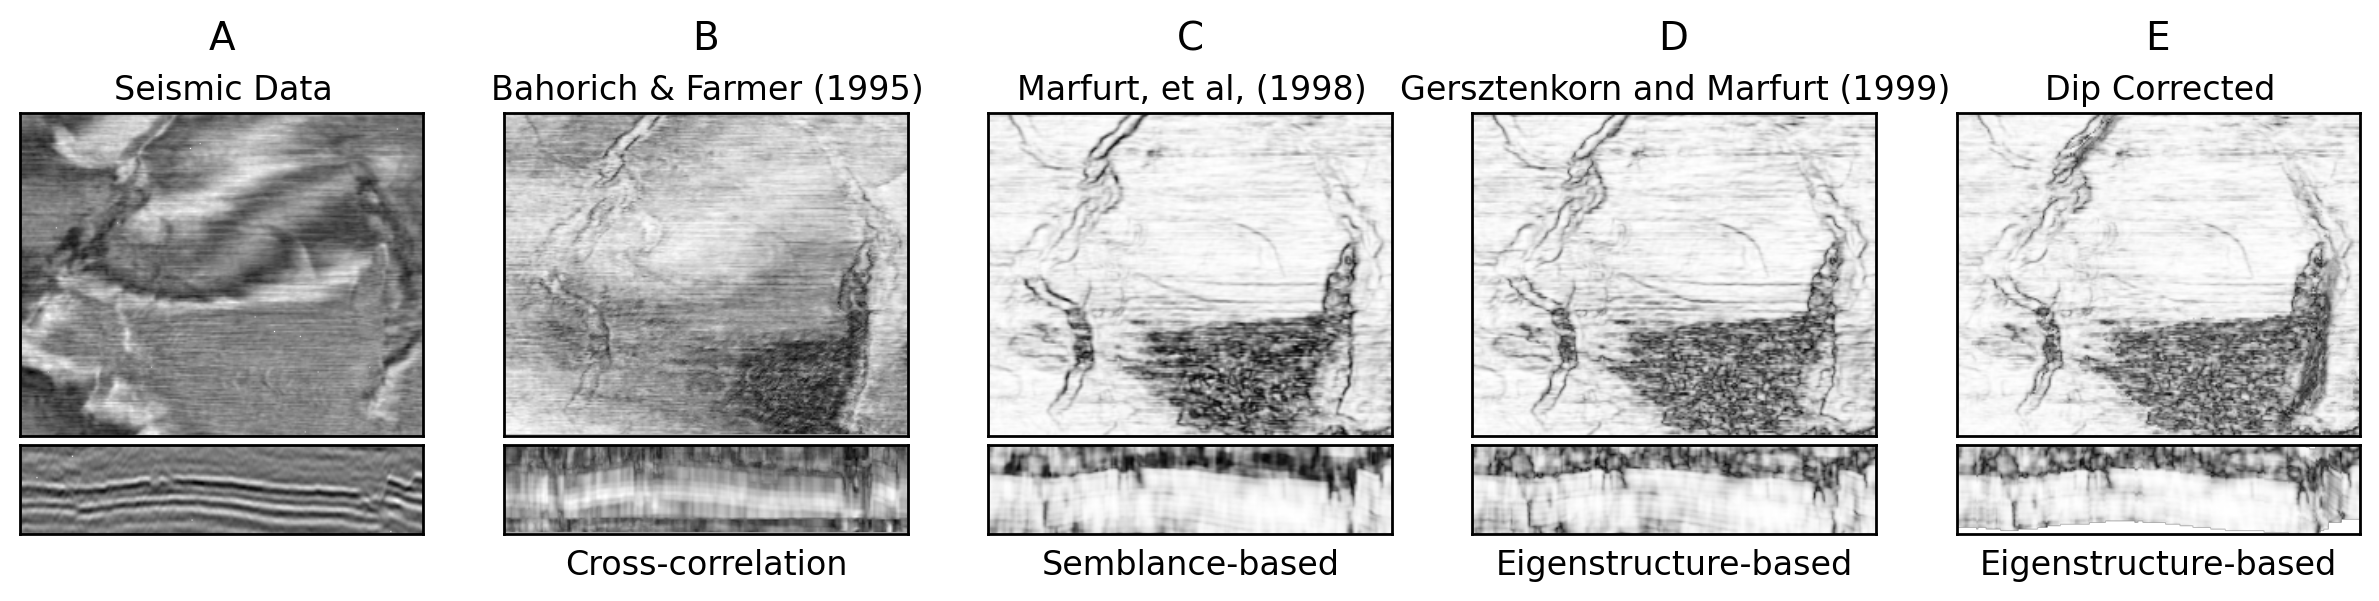
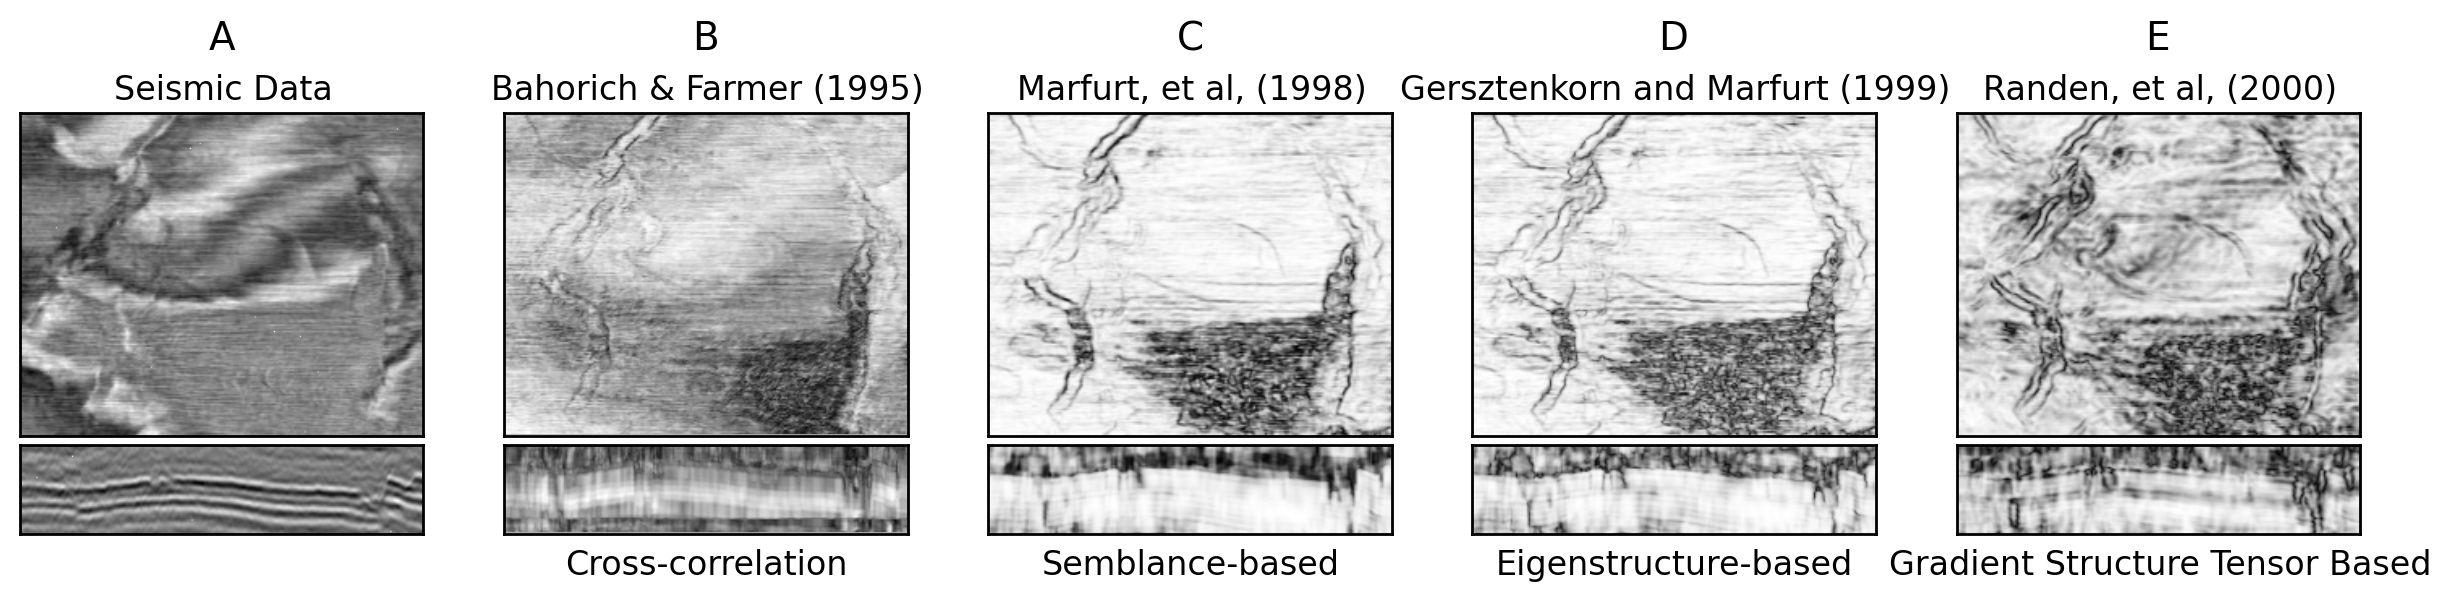
GST Coherence added as part of tutorial

diff --git a/1512_Semblance_coherence_and_discontinuity/figures/basic_methods.py b/1512_Semblance_coherence_and_discontinuity/figures/basic_methods.py
@@ -99,3 +99,42 @@ def unflatten(data, surface, orig_shape):
         out[i, j, outmin:outmax] = data[i, j, inmin:inmax]
 
     return out
+
+def gradients(seismic, sigma):
+    """Builds a 4-d array of the gaussian gradient of *seismic*."""
+    grads = []
+    for axis in range(3):
+        # Gaussian filter with order=1 is a gaussian gradient operator
+        grad = scipy.ndimage.gaussian_filter1d(seismic, sigma, axis=axis, order=1)
+        grads.append(grad[..., np.newaxis])
+    return np.concatenate(grads, axis=3)
+
+def moving_window4d(grad, window, func):
+    """Applies the given function *func* over a moving *window*, reducing
+    the input *grad* array from 4D to 3D."""
+    # Pad in the spatial dimensions, but leave the gradient dimension unpadded.
+    half_window = [(x // 2, x // 2) for x in window] + [(0, 0)]
+    padded = np.pad(grad, half_window, mode='reflect')
+
+    out = np.empty(grad.shape[:3], dtype=float)
+    for i, j, k in np.ndindex(out.shape):
+        region = padded[i:i+window[0], j:j+window[1], k:k+window[2], :]
+        out[i,j,k] = func(region)
+    return out
+
+def gst_coherence_calc(region):
+    """Calculate gradient structure tensor coherence on a local region.
+    Intended to be applied with *moving_window4d*."""
+    region = region.reshape(-1, 3)
+    gst = region.T.dot(region) # This is the 3x3 gradient structure tensor
+
+    # Reverse sort of eigenvalues of the GST (largest first)
+    eigs = np.sort(np.linalg.eigvalsh(gst))[::-1]
+
+    return (eigs[0] - eigs[1]) / (eigs[0] + eigs[1])
+
+def gst_coherence(seismic, window, sigma=1):
+    """Randen, et al's (2000) Gradient Structure Tensor based coherence."""
+    # 4-d gradient array (ni x nj x nk x 3)
+    grad = gradients(seismic, sigma)
+    return moving_window4d(grad, window, gst_coherence_calc)

diff --git a/1512_Semblance_coherence_and_discontinuity/figures/figure_1.py b/1512_Semblance_coherence_and_discontinuity/figures/figure_1.py
@@ -2,7 +2,7 @@ import numpy as np
 import matplotlib.pyplot as plt
 
 import basic_methods
-from basic_methods import moving_window
+from basic_methods import moving_window, gst_coherence
 from parent_directory import data, image_dir
 
 
@@ -18,8 +18,8 @@ def main():
          moving_window(seismic, (3,3,9), basic_methods.marfurt_semblance), 'C')
     plot(axes[:,3], 'Gersztenkorn and Marfurt (1999)', 'Eigenstructure-based',
          moving_window(seismic, (3,3,9), basic_methods.eig), 'D')
-    plot(axes[:,4], 'Dip Corrected', 'Eigenstructure-based',
-         dip_corrected(seismic, (3, 3, 9), basic_methods.eig), 'E')
+    plot(axes[:,4], 'Randen, et al, (2000)', 'Gradient Structure Tensor Based',
+         gst_coherence(seismic, (3, 3, 9), sigma=2), 'E')
 
     fig.savefig(image_dir('figure_1.png'), dpi=200, bbox_inches='tight')
     plt.show()

diff --git a/1512_Semblance_coherence_and_discontinuity/writeup.md b/1512_Semblance_coherence_and_discontinuity/writeup.md
@@ -7,7 +7,7 @@ Abstract
 Coherence/discontinuity calculations are some of the most commonly used
 seismic attributes.  They measure the degree of similarity between adjacent
 seismic traces. However, there are several different algorithms to calculate
-a discontinuity estimate and many more terms used to refer to those algorithms. 
+a discontinuity estimate and many more terms used to refer to those algorithms.
 As a result, it is often difficult to understand the differences between
 various similar discontinuity attributes.  While the exact discontinuity
 algorithm that any particular proprietary software package uses may be unknown,
@@ -62,37 +62,14 @@ expands on these examples and gives runnable versions of these short snippets.
 Early Algorithms - Cross-correlation
 ----------------
 The earliest discontinuity algorithm was developed by Bahorich and Farmer
-(1995) and used the maximum cross correlation value of three traces.  Bahorich
-and Farmer coined the term "coherence" for the attribute, based on its
-conceptual similarity to pre-stack methods for estimating stacking velocities (e.g. Taner and Koehler, 1969).
-While this exact approach is computationally expensive and not widely used
-today, it provides a good starting point to understand later algorithms.
-
-In Bahorich and Farmer's (1995) method, each trace is correlated with a
-"moving-window" subset of two neighboring traces. We can demonstrate this with
-the python function shown below (Figure 1B):
-
-```
-def bahorich_coherence(data, zwin):
-    ni, nj, nk = data.shape
-    out = np.zeros_like(data)
-    padded = np.pad(data, ((0, 0), (0, 0), (zwin//2, zwin//2)), mode='reflect')
-
-    for i, j, k in np.ndindex(ni - 1, nj - 1, nk - 1):
-        center_trace = data[i,j,:]
-        center_std = center_trace.std()
-        x_trace = padded[i+1, j, k:k+zwin]
-        y_trace = padded[i, j+1, k:k+zwin]
-
-        xcor = np.correlate(center_trace, x_trace)
-        ycor = np.correlate(center_trace, y_trace)
-
-        px = xcor.max() / (xcor.size * center_std * x_trace.std())
-        py = ycor.max() / (ycor.size * center_std * y_trace.std())
-        out[i,j,k] = np.sqrt(px * py)
-
-    return out
-```
+(1995) and used the maximum cross correlation value of three traces.  Each
+trace is correlated with a "moving-window" subset of two neighboring traces
+(Figures 1B and 2B). A complete implementation is given in the accompanying
+notebook, but we'll skip it here for brevity. Bahorich and Farmer coined the
+term "coherence" for the attribute, based on its conceptual similarity to
+pre-stack methods for estimating stacking velocities (e.g. Taner and Koehler,
+1969).  While this exact approach is computationally expensive and not widely
+used today, it provides a good starting point to understand later algorithms.
 
 Generalization to an Arbitrary Number of Traces
 -----------------------------------------------
@@ -100,8 +77,7 @@ Bahorich and Farmer's (1995) approach was very successful, but it is
 sensitive to noise because only three traces are used. Marfurt, et al (1998)
 generalized Bahorich and Farmer's cross-correlation approach to an arbitrary
 number of input traces, referred to by the authors as "semblance-based
-coherence" (Figure 1C). As an example (Note: we'll reuse the ``moving_window``
-function in future examples):
+coherence" (Figure 1C). As an example:
 
 ```
 def moving_window(data, func, window):
@@ -159,27 +135,48 @@ cloud is fit by a plane.  To contrast with Marfurt, et al's (1998)
 method, for the case of two traces, this measures the scatter about the
 best-fit line instead of a line with a slope of 1, as shown in Figure 2D.
 
-Further Enhancements
---------------------
+Gradient Changes Instead of Trace Similarity
+--------------------------------------------
 
-A drawback to Marfurt, et al's (1998) and Gersztenkorn and Marfurt's (1999)
-approaches is that dipping reflectors will have a uniformly higher
-discontinuity (lower coherence/similarity) than non-dipping reflectors. In
-other words, these attributes don't distinguish between regional structural dip and
-localized discontinuities due to faulting, etc. Therefore, Marfurt
-(2006) proposed calculating and correcting for structural dip when performing
-discontinuity calculations.   While there are a number of different
-methods that can be used to both calculate and correct for structural dip (see
-Ch. 2 of Chopra and Marfurt (2007) for a review), dip calculations are beyond
-the scope of this tutorial.  Therefore, we'll approximate a dip correction by
-flattening on a pre-picked horizon in the interval of interest before applying
-a discontinuity calculation (Figure 1E).
+An entirely different approach than any we've discussed so far is to apply a
+structure tensor to seismic attributes. The structure tensor measures how the
+gradient of each dimension co-varies locally. Randen, et al (2000) were the
+first to propose this approach in their Gradient Structure Tensor (GST)
+attributes.  A number of useful attributes can be computed from the ratios of
+the eigenvalues of the structure tensor, one of which is a measure of how
+planar the data is locally, which we'll refer to as GST coherence (Randen, et
+al 2000).
 
-Furthermore, a number of other authors have proposed other discontinuity
-attributes which are not covered in this tutorial (See Ch. 3 of Chopra and
-Marfurt (2007) for a thorough review). I encourage you to try implementing
-some of these methods on your own based on this tutorial and the associated
-IPython/Jupyter notebook.
+```
+def gradients(seismic, sigma):
+    grads = []
+    for axis in range(3):
+        grad = scipy.ndimage.gaussian_filter1d(seismic, sigma, 
+	                                       axis=axis, order=1)
+        grads.append(grad[..., np.newaxis])
+    return np.concatenate(grads, axis=3)
+
+def gst_coherence_calc(region):
+    region = region.reshape(-1, 3)
+    gst = region.T.dot(region)
+    eigs = np.sort(np.linalg.eigvalsh(gst))[::-1]
+    return (eigs[0] - eigs[1]) / (eigs[0] + eigs[1])
+
+def gst_coherence(seismic, window, sigma=1):
+    grad = gradients(seismic, sigma)
+    return moving_window4d(grad_array, window, gst_coherence_calc)
+```
+
+Final Thoughts
+--------------
+
+Discontinuity attributes are a fundemental part of an interpreter's toolkit
+when working with 3D data.  While most interpreters are familiar with using
+discontinuity attributes, few are familiar with how they're implemented or the
+differences between similar attributes. Hopefully the accompanying
+IPython/Jupyter notebook and this brief tutorial help clear up some
+implementation details and inspires you to attempt new variants on well-known
+discontinuity attributes.
 
 References
 ----------
@@ -201,6 +198,8 @@ doi:10.1190/1.2213049
 
 Nova Scotia Department of Energy, 1992, Penobscot 3D Survey. Dataset accessed 19 October, 2015 at
 https://opendtect.org/osr/pmwiki.php/Main/PENOBSCOT3DSABLEISLAND
+
+Randen, T., E. Monsen, C. Singe, A. Abrahamsen, J. Hansen, T. Saeter, and J. Schlaf, 2000, Three-dimensional texture attributes for seismic data analysis, 70th Annual International Meeting, **SEG**, Expanded Abstracts, 668-671.
 
 Taner, M. T., And F. Koehler, 1969, Velocity Spectra—Digital Computer Derivation Applications of Velocity Functions: Geophysics, **34**, 859-881.
 doi:10.1190/1.1440058 
